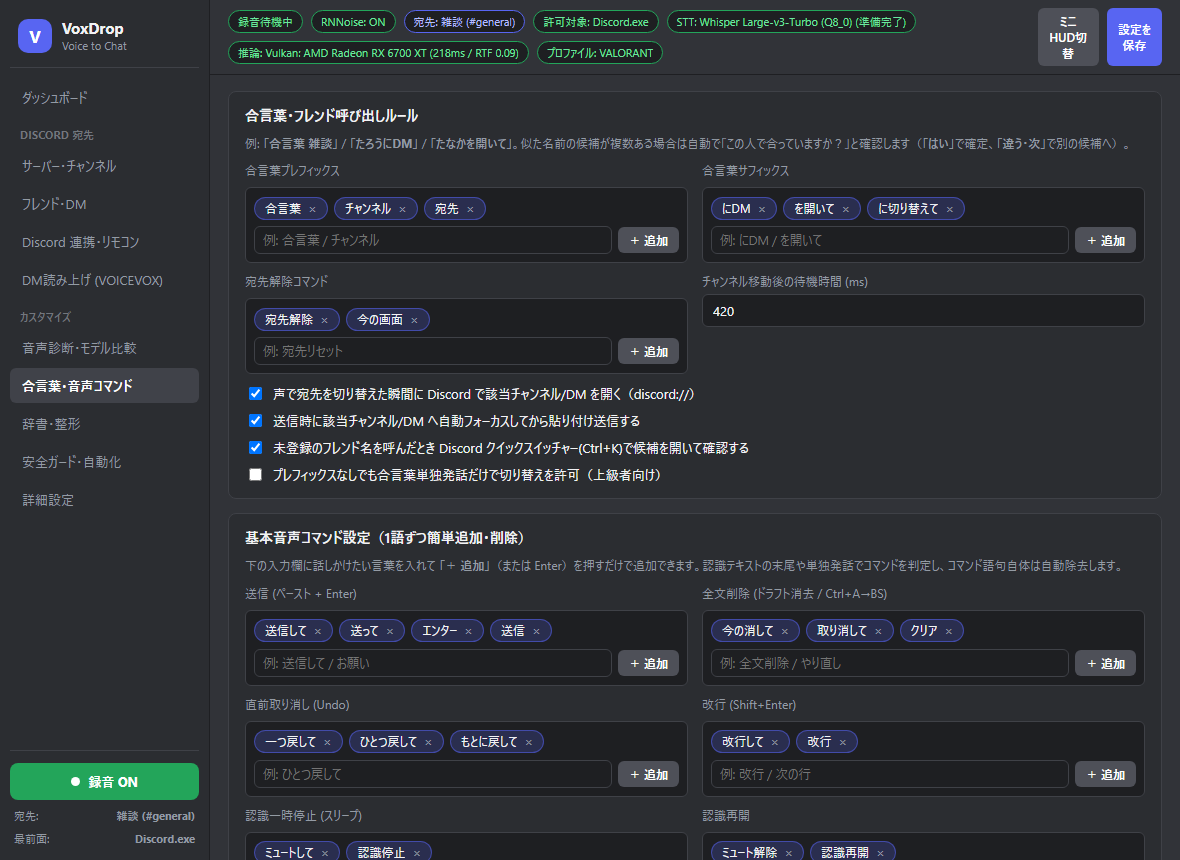
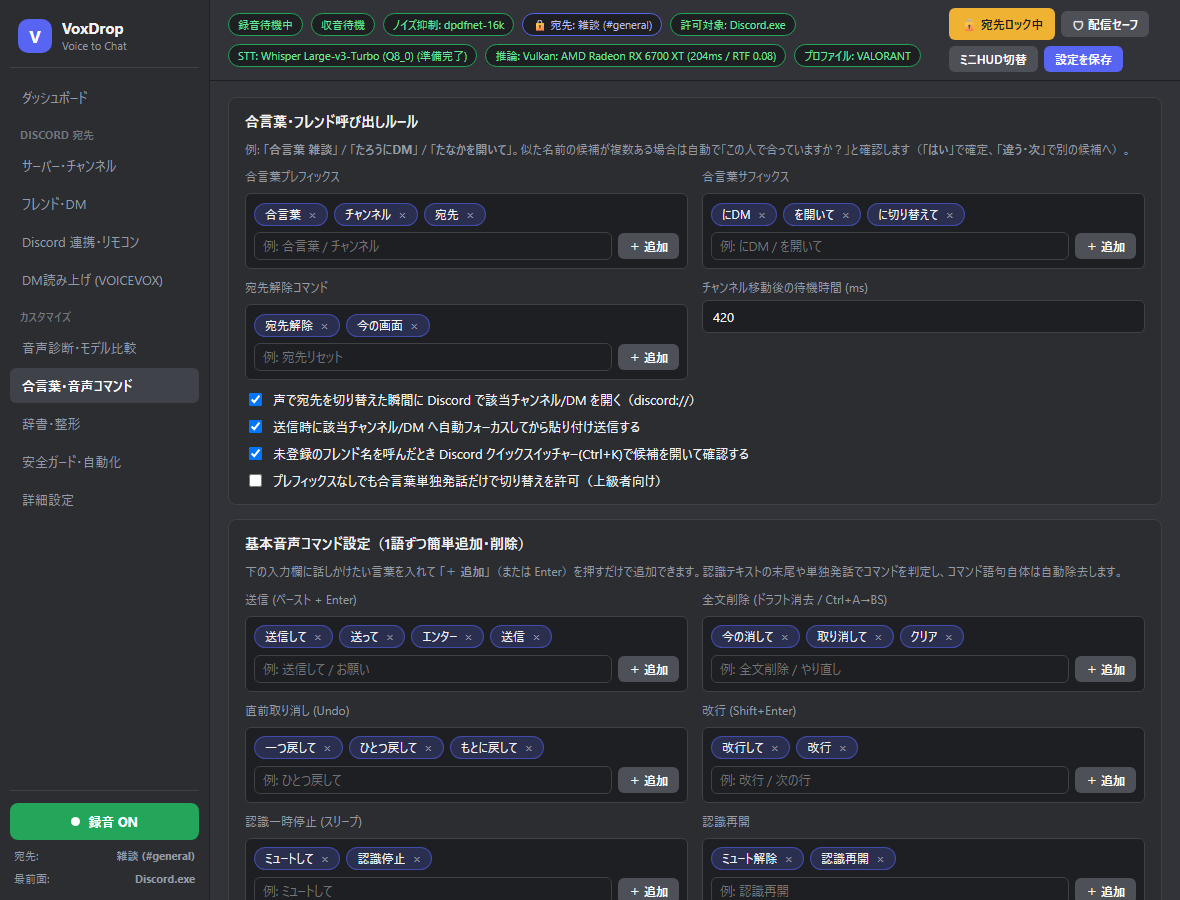
docs: update README and refresh v1.6.1 UI screenshots

diff --git a/README.md b/README.md
@@ -10,21 +10,23 @@
 
 ## 主な特徴
 
-### 1. Whisper Large-v3-Turbo (Q8) × Vulkan GPU 高速高精度認識
-- **Whisper Large-v3-Turbo (Q8_0)**（詳細設定から **Kotoba-Whisper v2.0** 等への切替も可）＋**Vulkan GPU 加速（AMD / NVIDIA / Intel 対応・CPU 自動フォールバック）** を内蔵。
-- **Dual-Path 音声パイプライン**: VAD 判定側には RNNoise 雑音抑制を適用しつつ、Whisper へ送る音声はノイズゲート無し・自然な音質を保つ専用経路を通すことで、ゆっくり発話・小声・通常会話・早口のすべてで誤認識や認識落ちを大幅に低減しました。
-- **動的コンテキストヒント**: 登録した音声コマンド・カスタム辞書・フレンド／チャンネル名を Whisper の `initial_prompt` へ自動注入し、固有名詞や「送信して」等の認識率を高めます。
-- 単一の **`voxdrop.exe`** にランタイム＆日本語モデル＆Silero VAD を丸ごと内蔵しているため、ダウンロードしてダブルクリックするだけですぐに使えます（多重起動防止にも対応）。
+### 1. 6層極限認識パイプライン × 全GPUベンダー対応（CUDA不要）
+- **Whisper Large-v3-Turbo (Q8_0) 同梱・即時利用**: 単体実行ファイル **`voxdrop.exe`** にランタイム・日本語モデル・Silero VAD を内蔵し、起動するだけで即利用できます。
+- **CUDA 不要のマルチGPU加速**: AMD Radeon / NVIDIA GeForce / Intel Arc / 内蔵GPU では **Vulkan (`whisper.cpp` / `llama-server`)** および **DirectML (`sherpa-onnx` Qwen3-ASR / DPDFNet / GTCRN)** で高速推論し、非対応環境でも **CPU (AVX2/SSE)** へ自動フォールバックします。
+- **2系統 AI ノイズ抑制 + 子音強調 + WSOLA**:
+  - **VAD 判定側 (`GTCRN 16kHz` / `RNNoise`)** と **STT 推論側 (`DPDFNet2 16kHz / 48kHz`・残響ガード `attenuation_limit_db`)** を独立設定可能。
+  - **第1〜6層パイプライン**: DCオフセット除去＆ソフトリミッタ → 先頭200ms/末尾300ms無音パディング → 3.6kHz 子音 Presence EQ → **WSOLA ピッチ維持早口スロー再生** → **長文オーバーラップ分割＆あいまい結合** → **リアルタイム文脈 Prompt 注入** → **Temperature Fallback＋自動2パスレスキュー＋2エンジン合議** → **ローカル LLM 文脈ポスト補正**。
+
+![6層極限認識パイプライン・詳細設定](docs/images/settings_pipeline.png)
 
 ### 2. Silero VAD × 適応型ノイズ学習 ＋ 会話スタイルプリセット
-- **Silero VAD (`silero_vad.onnx`) ＋ 適応型 SNR**: ニューラル音声区間検出と環境ノイズ床学習を組み合わせ、話し始めの小声やゆっくりした発話も取りこぼさず、無音や雑音は確実に除外します。
-- **会話プリセット**: ダッシュボードから **「通常会話（推奨）」「早口・連続」「ゆっくり・小声」** をワンクリックで切り替え可能。
-- **2 秒ノイズ自動測定ボタン** ＆ **RNNoise リアルタイムノイズ抑制** ＆ **2ch オーディオインターフェース（Steinberg UR22mkII 等）片チャンネル自動ゲイン最適化** を搭載。
+- **Silero VAD (`silero_vad.onnx`) ＋ 適応型 SNR ＋ ストリーミング暫定プレビュー**: 話し始めの小声やゆっくり発話を取りこぼさず、長発話の途中経過をミニ HUD とドラフト欄へリアルタイム仮表示します。
+- **会話プリセット & 15秒滑舌診断 & 夜間サイレント**: ダッシュボードの **「通常会話（推奨）」「早口・連続」「ゆっくり・小声」** に加え、マイク品質と話速を測って1クリック反映できる **15秒滑舌診断**、深夜時間帯の **自動夜間モード（高感度VAD＋VOICEVOX音量抑制＋Presence EQ強調）** を搭載。
 
 ### 3. 声だけで宛先切替 → DM を開いて入力欄へ自動フォーカス＆即送信
-- **合言葉・フレンド名で切り替え**: 「合言葉 〇〇」「〇〇にDM」「〇〇に切り替えて」と話すだけで、Discord を自動で前面化し、プロフィール画面を経由する場合も「メッセージ」ボタンを自動クリックしてチャット入力欄へフォーカスします。
-- **非ブロッキング複数候補の音声確認**: 似た名前のフレンドが複数いる場合もアプリ操作を止めずに確認バナーを表示し、「はい」「違う・次」「前の人」「キャンセル」と声だけで選べます。
-- **バックグラウンド自動送信＆復帰**: ゲーム画面のまま「送信して」「送って」「エンター」と言うだけで、裏にある Discord へ約 0.15 秒で自動送信し、元のゲーム画面へフォーカスを戻します（Webhook 直接送信にも対応）。
+- **合言葉・フレンド名で切り替え**: 「合言葉 〇〇」「〇〇にDM」「〇〇に切り替えて」と話すだけで Discord を前面化し、プロフィール画面が開いた場合も「メッセージを送る」ボタンを自動押下してチャット入力欄へ確実にフォーカスします。
+- **非ブロッキング複数候補の音声確認 & クイックDM返信**: 似た名前のフレンドが複数いる場合も確認バナーから「はい」「違う・次」「キャンセル」で選択でき、DM 読み上げ直後（60秒以内）なら「返信して 〇〇」だけで宛先切替なしで返信できます。
+- **宛先ロック & 慎重チャンネル二重確認**: 音声誤認識で意図しない宛先へ切り替わるのを防ぐ **宛先ロック** と、誤爆したくない送信先に対する **カウントダウン強制ガード** を備えています。
 
 ### 4. 見やすい宛先管理 & ゲーム画面に重ねられる透過ミニ HUD
 - **サーバー・チャンネル / フレンド・DM / Discord 連携・リモコン / DM読み上げ (VOICEVOX)** のわかりやすいタブ構成。
@@ -75,18 +77,14 @@
 
 ---
 
-### 9. 6層極限認識パイプライン × AIノイズ抑制 × 統合モデルカタログ (v1.6.1)
-- **2系統AIノイズ抑制 (`DPDFNet2` / `GTCRN` / `RNNoise` / `DeepFilterNet3`)**: VAD 判定側と STT 推論側を独立設定でき、残響・打鍵音を除去しつつ `attenuation_limit_db` と子音 Presence EQ (3.6kHz) で語頭の子音消えを防ぎます。
-- **6層高精度認識パイプライン**:
-  1. **WSOLA 早口自動スロー再生**: ピッチを保ったまま早口発話を 0.84x 減速して認識落ちを激減。
-  2. **長文オーバーラップチャンク分割＆あいまい結合** + **リアルタイム文脈 Prompt 注入** + **ストリーミング暫定プレビュー**。
-  3. **ビーム探索＆温度フォールバック再推論** + 不安定時の **自動2パスレスキュー** + **究極2エンジン合議 (STT1 + STT2)**。
-  4. **ローカル LLM 文脈・空耳ポストコレクタ (`llama-server` Vulkan/CPU 互換)** + 4種の文体プリセット（標準 / タメ口 / 丁寧語 / ゲーム報告）。
-  5. **音韻（モーラ）類似ファジーコマンド＆部分修正** + **キャンセル後の言い直し癖自動学習** + **言い直し整理・スニペット・音声絵文字変換**。
-- **CUDA 不要ハードウェア診断ウィザード & 個別削除対応モデルカタログ**: AMD Radeon / NVIDIA GeForce / Intel GPU / CPU を自動診断して最適構成を 1 クリック適用でき、すべての外部モデルについてメリット・PC適合度・容量表示および **安全アンロード＋個別削除** に対応しています。
-- **実用ユーティリティ**: Windows 1950文字自動分割送信、PostMessage プロフィール画面誤停止修正＋詳細診断コード、夜間自動サイレント、VRAM ウォッチャー / バッテリー自動 Eco、USB マイク抜去時フォールバック、`portable.flag` ポータブルモード、JSON 設定・辞書バックアップ＆復元に対応。
+### 9. ハードウェア自動診断 & 個別削除対応 統合モデルカタログ (v1.6.1)
+- **DXGI GPU 自動診断ウィザード & VRAM ウォッチャー / バッテリー Eco**: AMD / NVIDIA / Intel / CPU を自動診断して最適構成を 1 クリック適用し、ゲーム中の VRAM 高負荷時は軽量構成へ自動退避、バッテリー駆動時は `eco_threads` へ自動切替します。
+- **全外部モデル統一カタログ & SHA-256 検証付き個別削除**: STT（Whisper / Qwen3-ASR / Parakeet）・AI ノイズ抑制（DPDFNet2 / GTCRN / DeepFilterNet3）・ローカル LLM 補正の全モデルに「利点・向き不向き・PC適合度・使用容量」を表示し、使用中モデルも安全アンロードして個別に削除できます。
+- **ポータブルモード & バックアップ**: `voxdrop.exe` と同階層に `portable.flag` を置くだけでフォルダ完結動作となり、設定・辞書・発音クセ・統計の JSON バックアップ/復元にも対応しています。
 
-![詳細設定（統合モデルカタログ・ハードウェア診断・6層精度パイプライン）](docs/images/settings_stt.png)
+| 統合モデルカタログ・GPU診断ウィザード | 辞書・スニペット・絵文字・発音クセ学習 |
+| :---: | :---: |
+| ![詳細設定（統合モデルカタログ・GPU診断）](docs/images/settings_stt.png) | ![辞書・スニペット・音声絵文字タブ](docs/images/dictionary_macros.png) |
 
 ---
 
@@ -105,8 +103,13 @@
 
 | 話しかける言葉 | 動作 |
 | :--- | :--- |
-| `〇〇、送信して` / `送って` / `エンター` | テキストを Discord へ貼り付けて送信 |
+| `〇〇、送信して` / `送って` / `エンター` | テキストを Discord へ貼り付けて送信（1950文字超は自動分割） |
 | `合言葉 〇〇` / `〇〇にDM` / `〇〇に切り替えて` | 登録したフレンド DM・チャンネルへ切替＆入力欄フォーカス |
+| `返信して 〇〇` | 直近の DM 読み上げ相手へ宛先切替なしで即返信 |
+| `〇〇を△△に変えて` | 直前の発話・下書きの誤認識語だけをピンポイント修正 |
+| `ネタバレ 〇〇` / `強調` / `コード` / `引用` | Discord Markdown (`||〇〇||` / `**〇〇**` / `` `〇〇` `` / `> 〇〇`) に装飾 |
+| `クリップボード貼って` / `URL送って` | クリップボードの内容やコピーした URL を貼り付け・送信 |
+| `宛先ロック` / `宛先ロック解除` | 音声や自動検出による宛先変更をロック／解除 |
 | `宛先解除` | 宛先固定を解除し、現在の Discord 画面へ送信 |
 | `今の消して` / `キャンセル` | 下書き（ドラフト）を全消去 |
 | `一つ戻して` | 直前のフレーズを取り消し |
